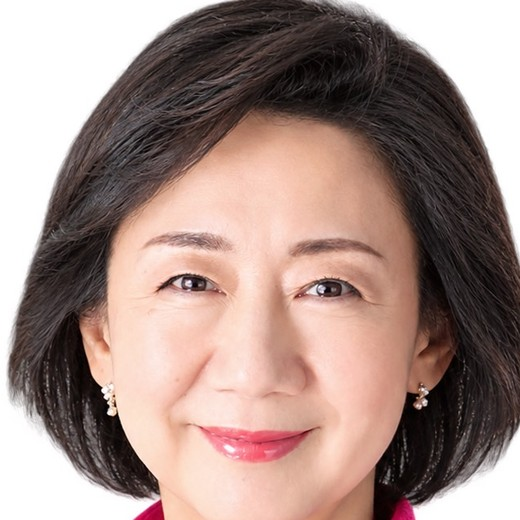
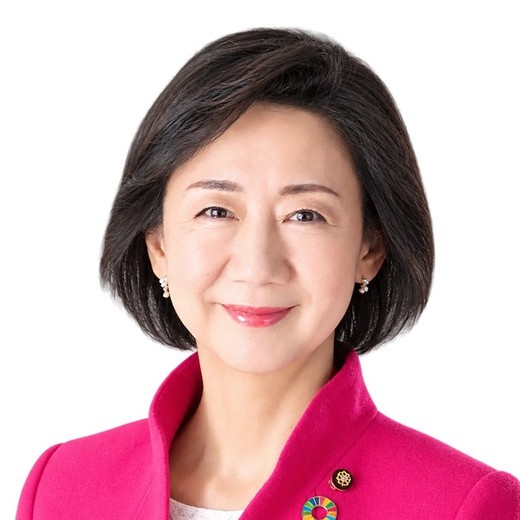
案2：自己紹介の丸写真を引きのアングル（頭〜肩）に変更
Claude-Session: https://claude.ai/code/session_01MY4iCa8FpXpxVwEN9nv1eB

diff --git a/2/index.html b/2/index.html
@@ -66,7 +66,7 @@
 <div class="wrap">
 <div class="ttl rv"><span class="en">Profile</span><h2>自己紹介</h2></div>
 <div class="intro rv">
-<div class="intro__photo"><img alt="福田ちえ" height="520" src="images/chie-face.jpg" width="520"/></div>
+<div class="intro__photo"><img alt="福田ちえ" height="520" src="images/chie-face.jpg?v=2" width="520"/></div>
 <div>
 <dl class="dl">
 <dt>氏名</dt><dd>福田 智恵<wbr>（ふくだ・ちえ）</dd>
